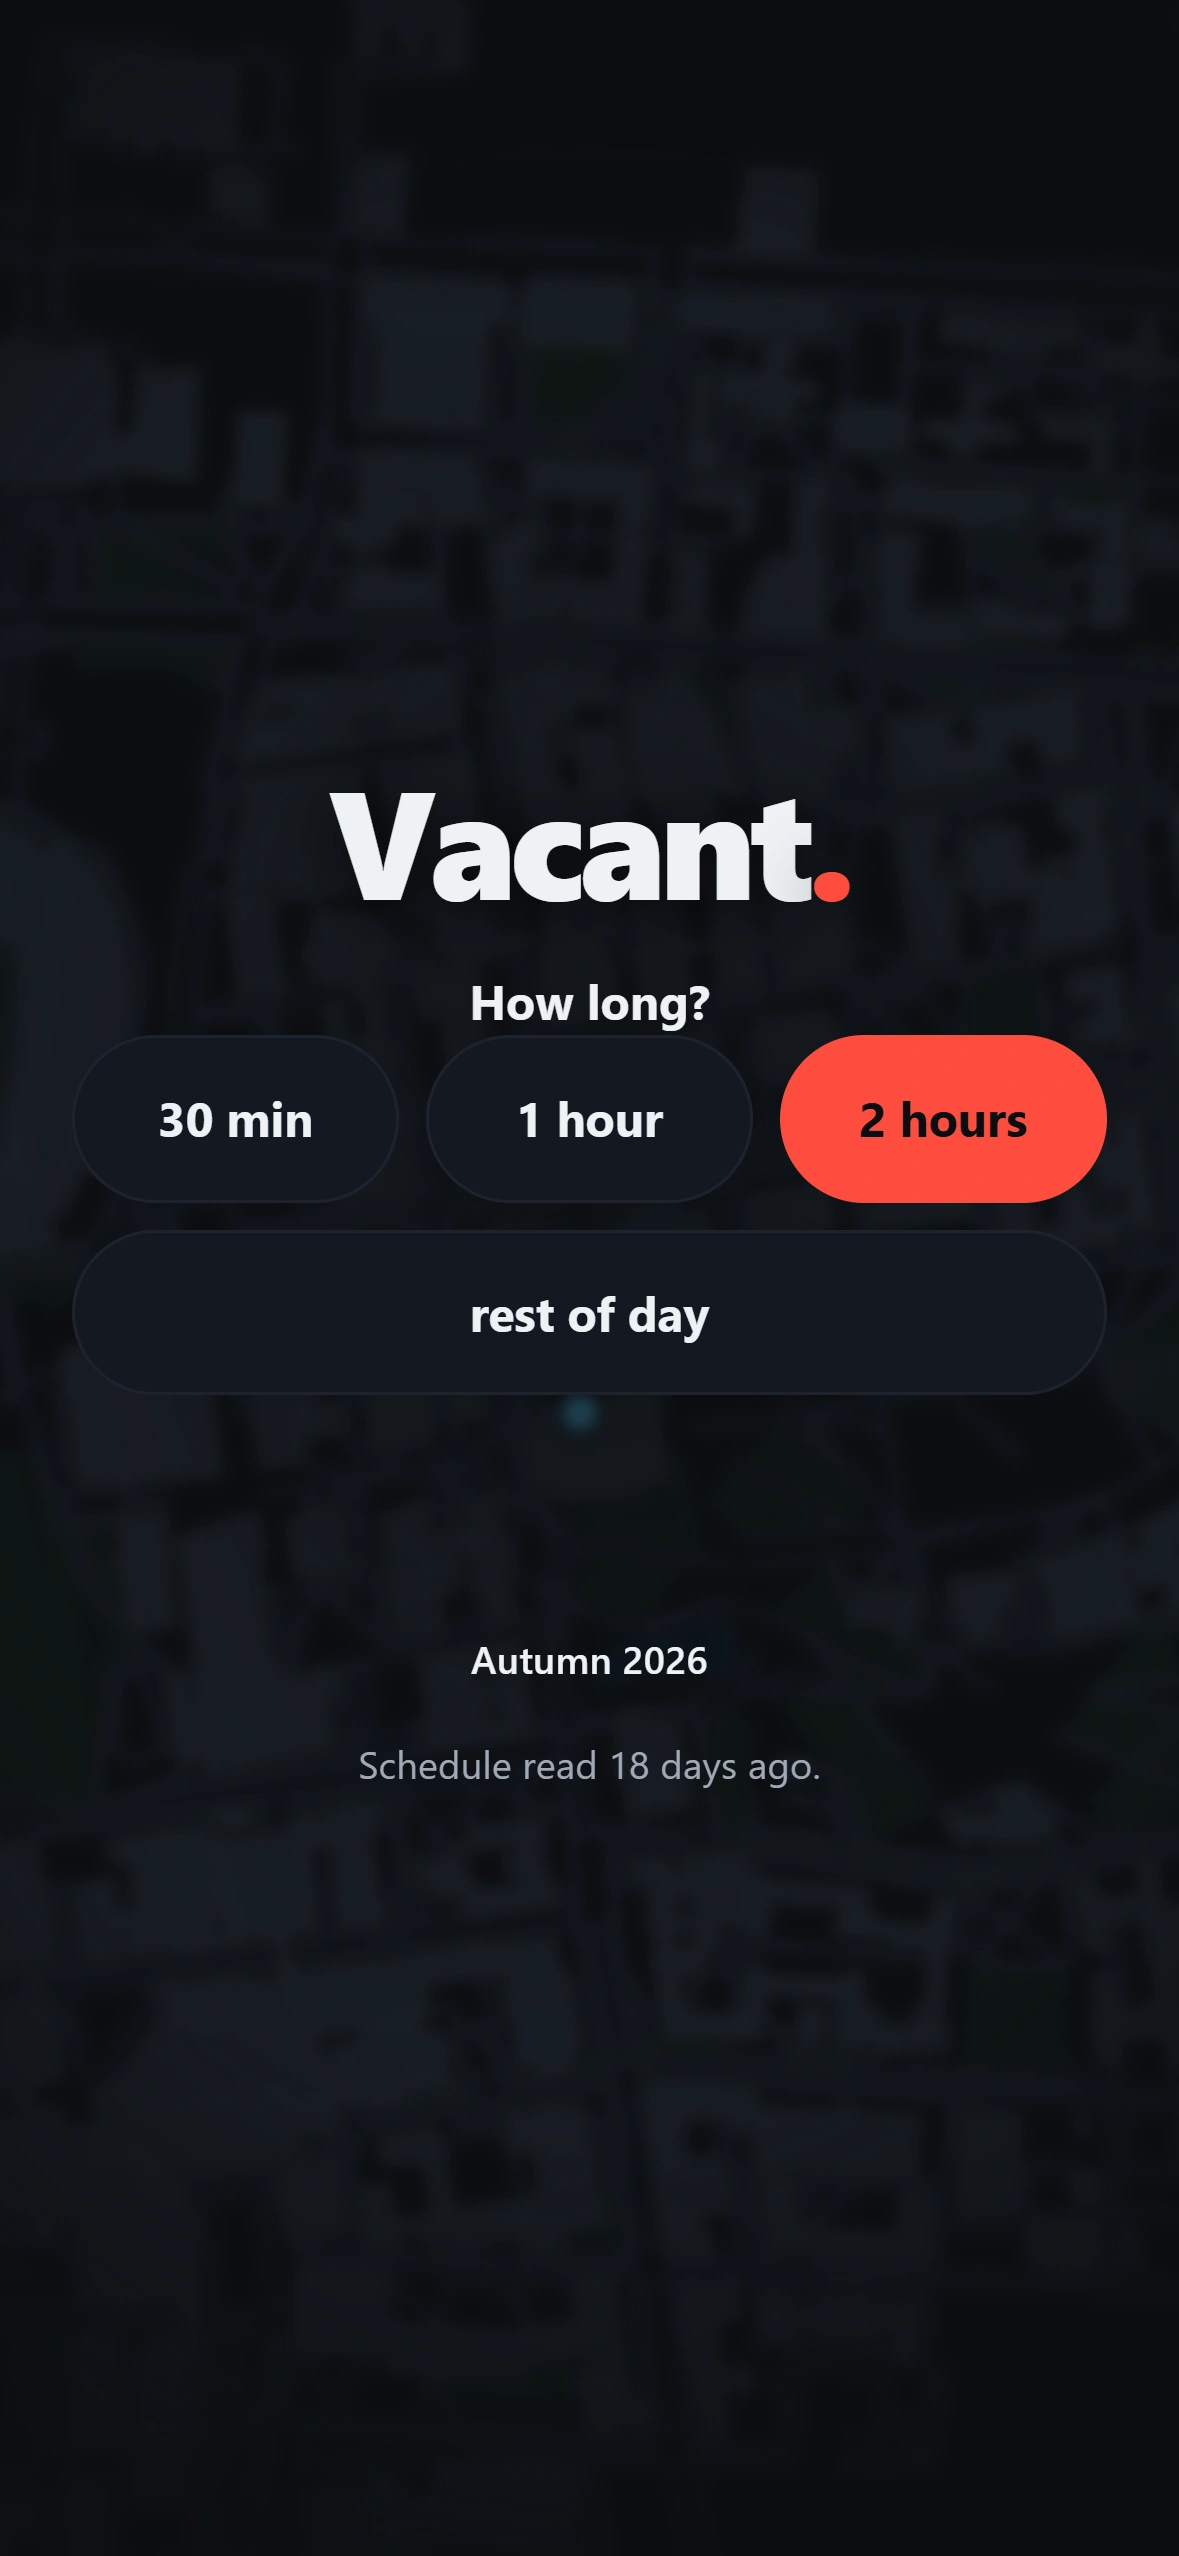
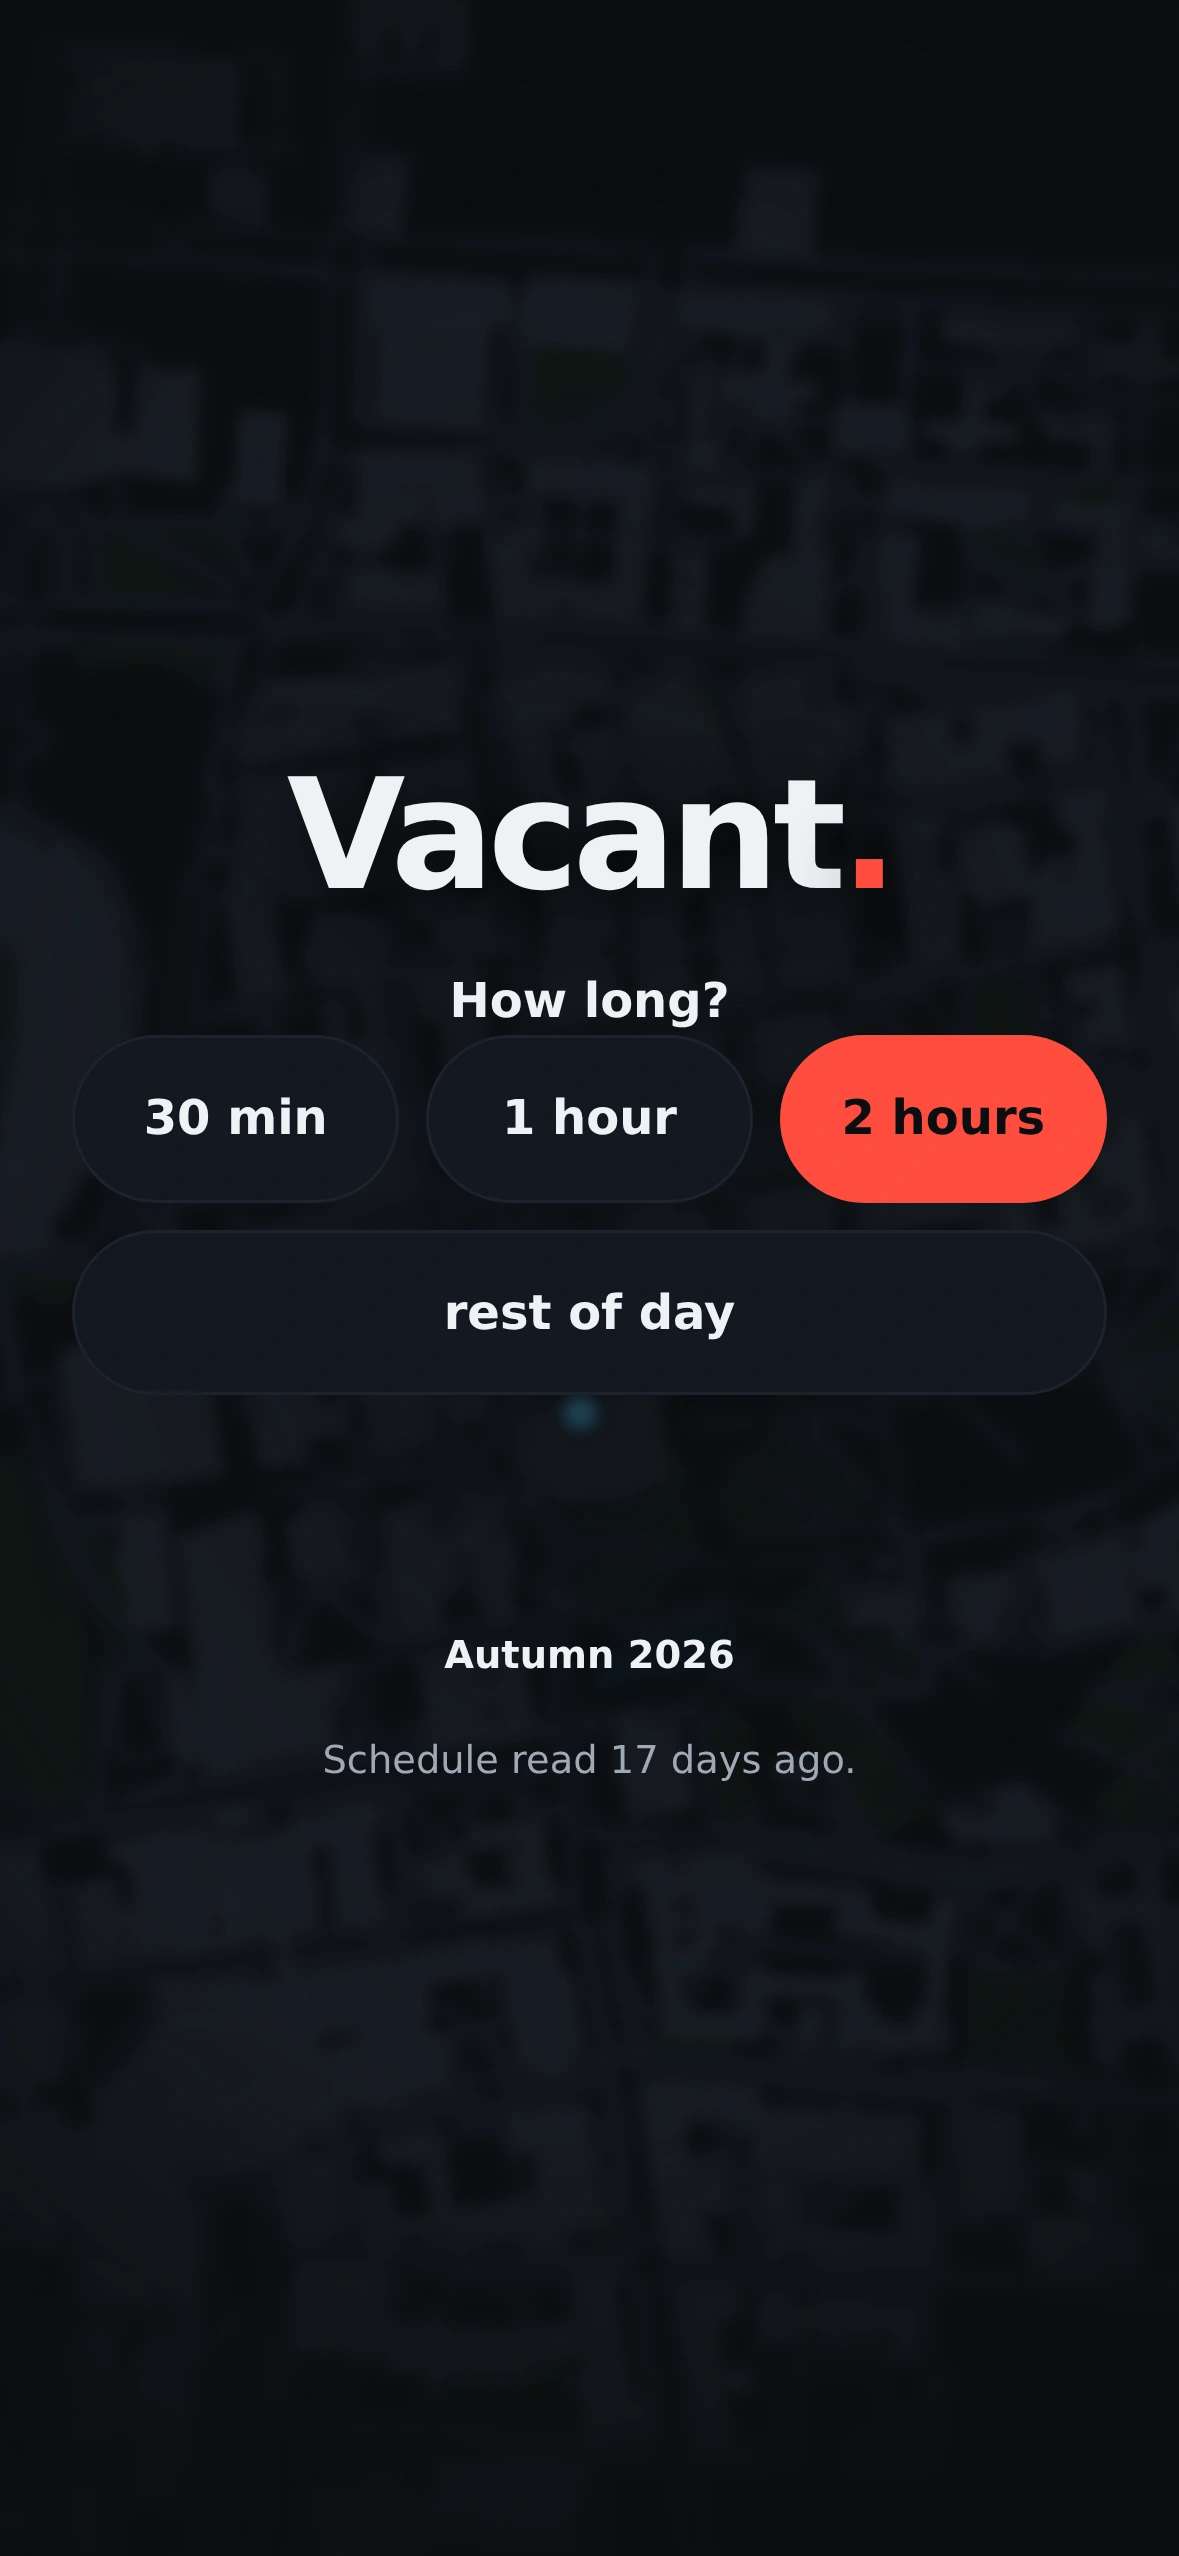
Give the shooter its one missing flag, and redraw the frames
docs/media had drifted a whole release behind the app: list.webp and
list-full.webp still showed the duration chip bar #95 deleted, and
room.webp still showed the on-map walk-time pill #94 removed. Twice the
conclusion was that no browser was available here. It was, and the
blocker was one launch argument.

Chromium's sandbox needs a non-root user to drop privileges to and
refuses to start without one, so as root it exits 1 before it ever
writes DevToolsActivePort — the "chrome exited with 1" that got read as
"no browser". --no-sandbox is added only when process.getuid() is 0, so
a desktop run keeps its sandbox. chromePaths() also learned the
Playwright cache (PLAYWRIGHT_BROWSERS_PATH and ~/.cache/ms-playwright,
newest build first), which is where the Chromium on this machine lives;
CHROME= still works and is no longer needed.

All five frames were regenerated in one run, not just the two stale
ones, so the set is one moment of one app. The pinned clock and pinned
position are unchanged, so the frames are the same photograph they
always were, of a newer app.

What the app now prints changed with them, so frames.json and the README
follow the pictures rather than the other way round:

  - the chip bar is gone and the sheet says "You asked for 2h00."
  - the list ranks differently and departmental rooms carry a label,
    so the top rows are Cunz Hall 160 and PAES A111
  - the room screen's second button reads Directions, not Maps
[…]

diff --git a/README.md b/README.md
@@ -9,7 +9,7 @@ asks one question, and hands you rooms you can walk to, nearest first.
 
 | | | |
 | :--: | :--: | :--: |
-| ![The opening screen: the word Vacant over a dark campus map, the question "How long do you need?", and three buttons reading 30 min, 1 hour and 2 hours](docs/media/ask.webp) | ![The ranked list over the map, with a blue dot showing where you are. 117 rooms free, 39 shown, one room per building. Psychology Building 115, 3 min walk, no class rest of today, 26 seats. University Hall 448, 3 min, no class rest of today, 25 seats.](docs/media/list.webp) | ![One room picked, Cunz Hall 160. Its building footprint is outlined in red on the map and a dashed line runs from the blue dot to it, labelled 4 min walk.](docs/media/room.webp) |
+| ![The opening screen: the word Vacant over a dark campus map, the question "How long?", and four buttons reading 30 min, 1 hour, 2 hours and rest of day](docs/media/ask.webp) | ![The ranked list over the map, with a blue dot showing where you are. 117 rooms free, 39 shown, one room per building, under a line reading "You asked for 2h00." Cunz Hall 160, 4 min walk, no class rest of today, 42 seats. PAES A111, 4 min, free till 4:00pm, 34 seats.](docs/media/list.webp) | ![One room picked, Cunz Hall 160. Its building footprint is outlined in red on the map, a dashed line runs from the blue dot to it, and its row is lit in the list below.](docs/media/room.webp) |
 | One question. | The answer. | Where it is. |
 
 ## Yours for, not free until
@@ -22,14 +22,14 @@ in the room's schedule, subtracts the walk, and leaves ten minutes at the end so
 you are not packing up while the next class files in. Walk time is straight line
 distance times 1.3 for the fact that campus paths bend, at 78 metres a minute.
 
-Read the third row of the middle screenshot. Psychology Building 217 says **free
-till 1:50pm**. The next class in that room starts at 2:00pm, you are three minutes
-away, and 1:50pm is when you have to be packed up.
+Read the second row of the middle screenshot. PAES A111 says **free till 4:00pm**.
+The next class in that room starts at 4:10pm, you are four minutes away, and
+4:00pm is when you have to be packed up.
 
 Tap it and the room screen says the same minute, then spells the rest out:
-**Yours for 3h27 once you get there.** The two screens agreeing is the point.
-They did not for a while: the room screen printed 2:45pm, the raw class start,
-handing back the ten minutes the row had already taken off
+**Yours for 5h36 once you get there.** The two screens agreeing is the point.
+They did not for a while: the room screen printed the raw class start, handing
+back the ten minutes the row had already taken off
 ([#77](https://github.com/EnesYilmazcode/Vacant/issues/77)).
 
 A row that says **no class rest of today** instead of a time means no class is
@@ -37,7 +37,7 @@ coming at all, and the timeline behind it ends where the building locks.
 
 | | |
 | :--: | :--: |
-| ![The list dragged up to fill the screen, showing eight rooms in eight different buildings, 3 min to 5 min away](docs/media/list-full.webp) | ![The room screen for Cunz Hall 160: no class in here for the rest of today, yours for 8h26 once you get there, 4 min walk, 42 seats, classroom, then Wednesday drawn as a calendar from 6 AM with two red blocks, KNSISM 3208 from 8:00am to 8:55am and KNSISM 3550 from 9:10am to 10:05am, and everything else empty](docs/media/timeline.webp) |
+| ![The list dragged up to fill the screen, showing eight rooms in eight different buildings, 3 min to 7 min away](docs/media/list-full.webp) | ![The room screen for Cunz Hall 160: no class in here for the rest of today, yours for 8h26 once you get there, 4 min walk, 42 seats, classroom, then Wednesday drawn as a calendar from 6 AM with two red blocks, KNSISM 3208 from 8:00am to 8:55am and KNSISM 3550 from 9:10am to 10:05am, and everything else empty](docs/media/timeline.webp) |
 | Drag the sheet up for the rest. | Tap a room twice for its whole day, doors included. |
 
 ## Put it on your home screen
